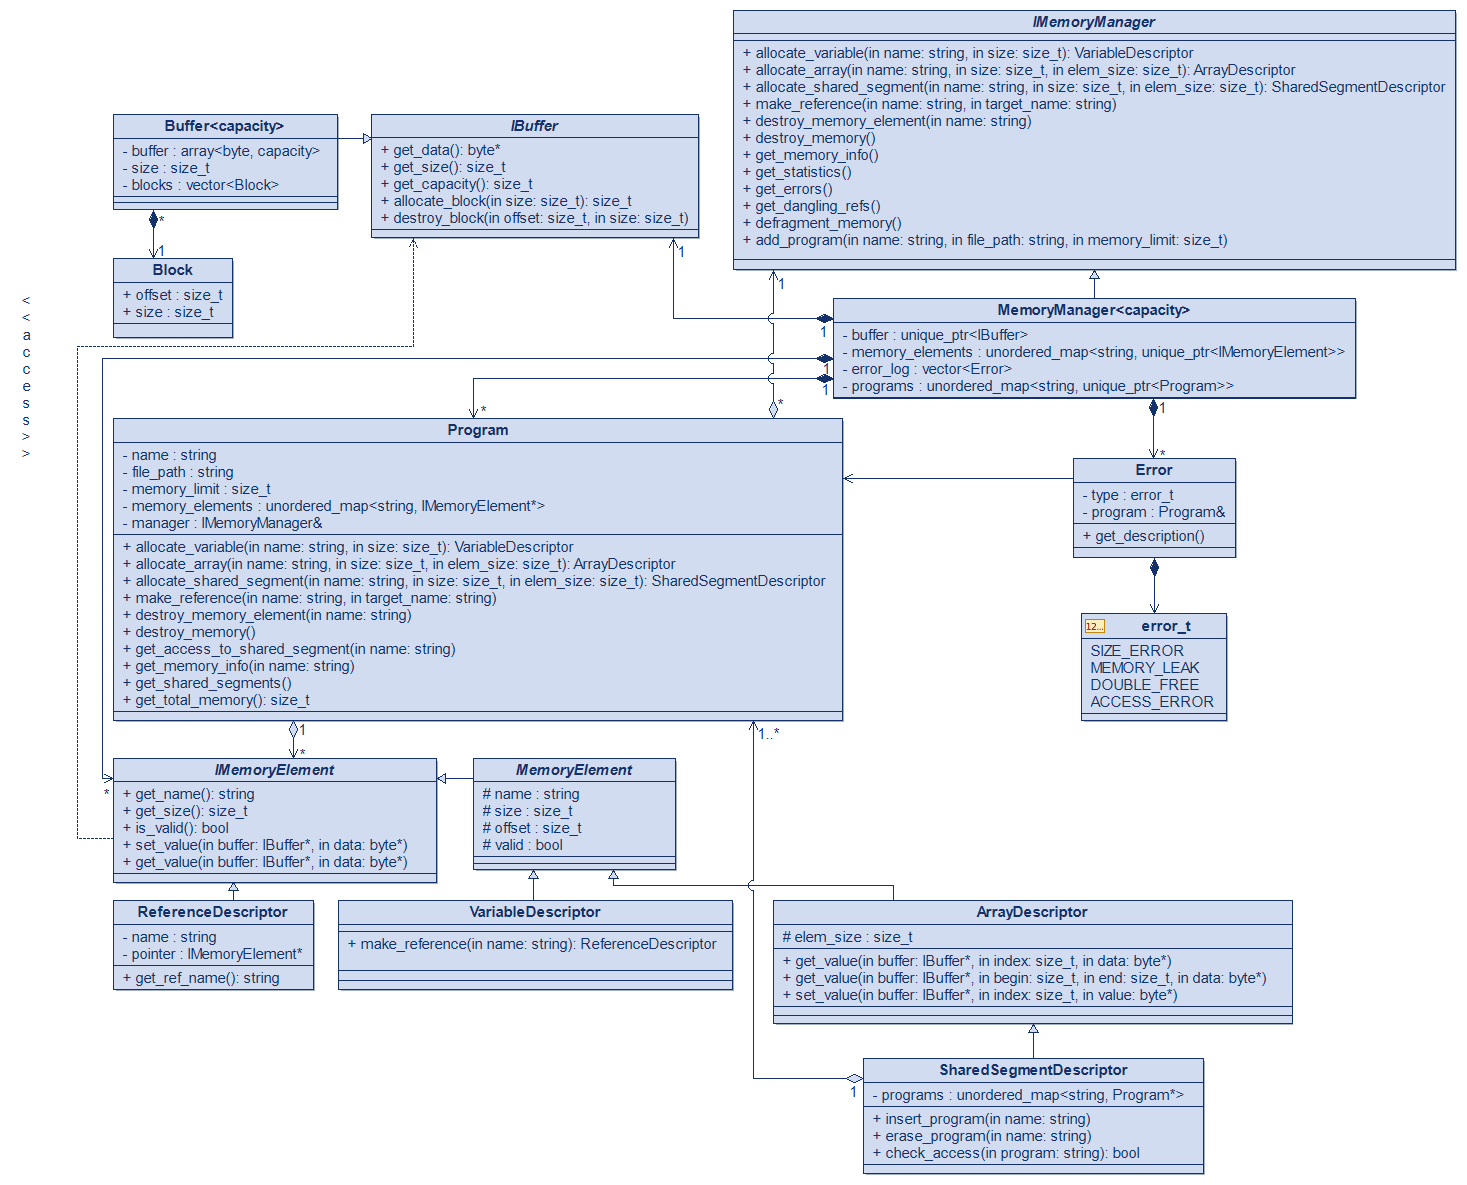
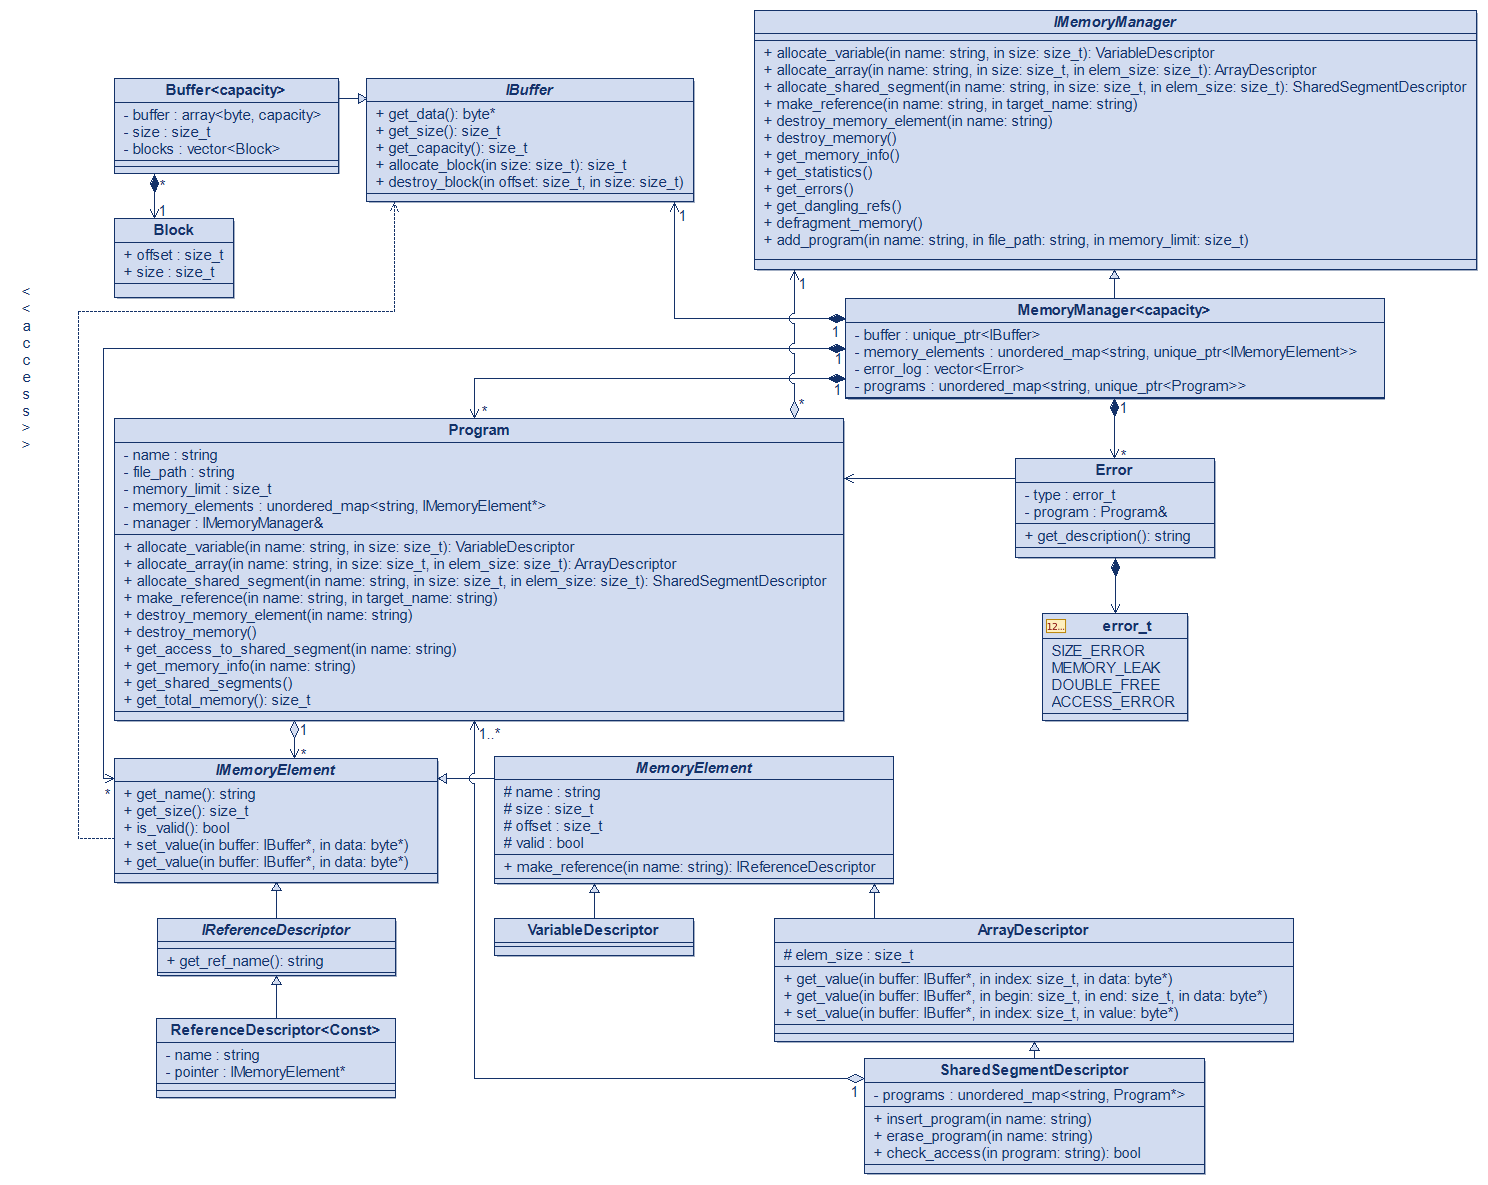
Fixed structure and added base funcs

diff --git a/3/Memory/include/Memory/SharedSegmentDescriptor.hpp b/3/Memory/include/Memory/SharedSegmentDescriptor.hpp
@@ -2,7 +2,7 @@
 #define SHAREDSEGMENTDESCRIPTOR_HPP
 
 #include <string>
-#include <vector>
+#include <unordered_map>
 #include <algorithm>
 #include <Memory/MemoryElement.hpp>
 #include <Memory/ArrayDescriptor.hpp>
@@ -12,14 +12,15 @@ namespace MemoryNameSpace{
 
 class SharedSegmentDescriptor final: public ArrayDescriptor{
 private:
-    std::vector<Program*> programs_;
+    std::unordered_map<std::string, Program*> programs_;
 
 public:
     SharedSegmentDescriptor(const std::string& name, size_t size, size_t element_size, size_t offset, Program* program)
-            : ArrayDescriptor(name, size, offset, element_size), programs_(std::vector<Program*>{program}) {};
+            : ArrayDescriptor(name, size, offset, element_size)
+            , programs_(std::unordered_map<std::string, Program*>{{program->get_name(), program}}) {};
     void insert_program(Program* program);
-    void erase_program(Program* program);
-
+    void erase_program(const std::string& name);
+    bool check_access(const std::string& name) const;
 };
 
 }

diff --git a/3/Memory/source/SharedSegmentDescriptor.cpp b/3/Memory/source/SharedSegmentDescriptor.cpp
@@ -1,19 +1,20 @@
-#include <string>
-#include <vector>
-#include <algorithm>
-#include <Memory/MemoryElement.hpp>
-#include <Memory/ArrayDescriptor.hpp>
-#include <Memory/Program.hpp>
+#include <Memory/SharedSegmentDescriptor.hpp>
 
 namespace MemoryNameSpace{
 
 void SharedSegmentDescriptor::insert_program(Program* program){
-    programs_.push_back(program);
+    programs_.insert({program->get_name(), program});
 }
-void SharedSegmentDescriptor::erase_program(Program* program){
-    auto it = std::find_if(programs_.begin(), programs_.end(),
-                            [&program](Program* cur_program){ return cur_program == program; });
+
+void SharedSegmentDescriptor::erase_program(const std::string& name){
+    auto it = programs_.find(name);
     if(it != programs_.end()) programs_.erase(it);
+}
+
+bool SharedSegmentDescriptor::check_access(const std::string& name) const {
+    auto it = programs_.find(name);
+    if(it != programs_.end()) return true;
+    return false;
 }
 
 }

diff --git a/3/Memory/include/Memory/ReferenceDescriptor.hpp b/3/Memory/include/Memory/ReferenceDescriptor.hpp
@@ -8,17 +8,20 @@
 namespace MemoryNameSpace{
 
 class ReferenceDescriptor final : public IMemoryElement{
+public:
+    using Pointer = IMemoryElement*;
+
 private:
     std::string name_;
-    IMemoryElement* pointer_;
+    Pointer pointer_;
 
 public:
-    ReferenceDescriptor(const std::string& name, MemoryElement* pointer)
+    ReferenceDescriptor(const std::string& name, Pointer pointer)
             : name_(name), pointer_(pointer) {};
     const std::string& get_name() const noexcept override;
     size_t get_size() const noexcept override;
     bool is_valid() const noexcept override;
-    void get_value(IBuffer* buffer, const std::byte* value) const;
+    void get_value(IBuffer* buffer, const std::byte* value) const override;
     void set_value(IBuffer* buffer, const std::byte* value) override;
     const std::string& get_ref_name() const noexcept;
 };

diff --git a/3/Memory/source/ArrayDescriptor.cpp b/3/Memory/source/ArrayDescriptor.cpp
@@ -6,16 +6,15 @@ void ArrayDescriptor::get_value(IBuffer *buffer, size_t index, const std::byte *
     std::byte* target = buffer->get_data() + offset_ + index * element_size_;
     std::copy(target, target + element_size_, value);
 }
+
 void ArrayDescriptor::get_value(MemoryNameSpace::IBuffer *buffer, size_t begin, size_t end, const std::byte *value) const {
     std::byte* target = buffer->get_data() + offset_ + begin * element_size_;
     std::copy(target, target + element_size_ * (end - begin), value);
 }
+
 void ArrayDescriptor::set_value(IBuffer *buffer, size_t index, const std::byte *value){
     std::byte* target = buffer->get_data() + offset_ + index * element_size_;
     std::copy(value, value + element_size_, target);
-}
-ReferenceDescriptor ArrayDescriptor::make_reference(std::string name){
-    return ReferenceDescriptor{name, this};
 }
 
 }

diff --git a/3/Memory/source/MemoryElement.cpp b/3/Memory/source/MemoryElement.cpp
@@ -1,20 +1,25 @@
-#include <string>
-#include <cstddef>
 #include <Memory/MemoryElement.hpp>
 
 namespace MemoryNameSpace{
 
 const std::string& MemoryElement::get_name() const noexcept { return name_; }
+
 size_t MemoryElement::get_size() const noexcept { return size_; }
+
 bool MemoryElement::is_valid() const noexcept { return valid_; }
+
 void MemoryElement::get_value(IBuffer* buffer, const std::byte* value) const {
     std::byte* target = buffer->get_data() + offset_;
     std::copy(target, target + size_, value);
 }
+
 void MemoryElement::set_value(IBuffer* buffer, const std::byte* value){
     std::byte* target = buffer->get_data() + offset_;
     std::copy(value, value + size_, target);
 }
 
+ReferenceDescriptor MemoryElement::make_reference(std::string name) {
+    return ReferenceDescriptor{name, this};
+}
 
 }

diff --git a/3/Memory/source/ReferenceDescriptor.cpp b/3/Memory/source/ReferenceDescriptor.cpp
@@ -1,5 +1,3 @@
-#include <string>
-#include <memory>
 #include <Memory/ReferenceDescriptor.hpp>
 
 namespace MemoryNameSpace{
@@ -7,18 +5,23 @@ namespace MemoryNameSpace{
 const std::string& ReferenceDescriptor::get_name() const noexcept {
     return pointer_->get_name();
 }
+
 size_t ReferenceDescriptor::get_size() const noexcept {
     return pointer_->get_size();
 }
+
 bool ReferenceDescriptor::is_valid() const noexcept {
     return pointer_->is_valid();
 }
+
 void ReferenceDescriptor::get_value(IBuffer* buffer, const std::byte* value) const {
     pointer_->get_value(buffer, value);
 }
+
 void ReferenceDescriptor::set_value(IBuffer* buffer, const std::byte* value) {
     pointer_->set_value(buffer, value);
 }
+
 const std::string& ReferenceDescriptor::get_ref_name() const noexcept {
     return name_;
 }

diff --git a/3/Memory/include/Memory/Buffer.hpp b/3/Memory/include/Memory/Buffer.hpp
@@ -37,8 +37,8 @@ public:
     
     std::byte* get_data() noexcept override { return buffer_.data(); }
     const std::byte* get_data() const noexcept override { return buffer_.data(); }
-    constexpr size_t get_size() const noexcept override { return size_; }
-    constexpr size_t get_capacity() const noexcept override { return capacity_; }
+    size_t get_size() const noexcept override { return size_; }
+    consteval size_t get_capacity() const noexcept override { return capacity_; }
     
     size_t allocate_block(size_t size) override {
         size_t offset_res = 0;
@@ -75,7 +75,6 @@ public:
         }
         blocks_.insert(it, Block{offset, size});
     }
-
 };
 
 }

diff --git a/3/Memory/include/Memory/MemoryElement.hpp b/3/Memory/include/Memory/MemoryElement.hpp
@@ -4,6 +4,7 @@
 #include <string>
 #include <cstddef>
 #include <Memory/Buffer.hpp>
+#include <Memory/ReferenceDescriptor.hpp>
 
 namespace MemoryNameSpace{
 
@@ -32,6 +33,7 @@ public:
     bool is_valid() const noexcept;
     void get_value(IBuffer* buffer, const std::byte* value) const override;
     void set_value(IBuffer* buffer, const std::byte* value) override;
+    virtual ReferenceDescriptor make_reference(std::string name);
     virtual void make_abstract() const noexcept = 0;
     virtual ~MemoryElement(){};
 };

diff --git a/3/Memory/source/Program.cpp b/3/Memory/source/Program.cpp
@@ -1,13 +1,9 @@
-#include <string>
-#include <unordered_map>
-#include <vector>
-#include <Memory/Manager.hpp>
-#include <Memory/MemoryElement.hpp>
-#include <Memory/VariableDescriptor.hpp>
-#include <Memory/ArrayDescriptor.hpp>
-#include <Memory/SharedSegmentDescriptor.hpp>
-#include <Memory/ReferenceDescriptor.hpp>
+#include <Memory/Program.hpp>
 
 namespace MemoryNameSpace{
+
+const std::string& Program::get_name() const {
+    return name_;
+}
 
 }

diff --git a/3/Memory/include/Memory/ArrayDescriptor.hpp b/3/Memory/include/Memory/ArrayDescriptor.hpp
@@ -19,7 +19,6 @@ public:
     void get_value(IBuffer* buffer, size_t begin, size_t end, const std::byte* value) const;
     using MemoryElement::set_value;
     void set_value(IBuffer* buffer, size_t index, const std::byte* value);
-    ReferenceDescriptor make_reference(std::string name);
 };
 
 }

diff --git a/3/Memory/include/Memory/VariableDescriptor.hpp b/3/Memory/include/Memory/VariableDescriptor.hpp
@@ -12,7 +12,6 @@ class VariableDescriptor final : public MemoryElement{
 public:
     VariableDescriptor(const std::string& name, size_t size, size_t offset)
             : MemoryElement(name, size, offset) {};
-    ReferenceDescriptor make_reference(std::string name);
 };
 
 }

diff --git a/3/Memory/source/Error.cpp b/3/Memory/source/Error.cpp
@@ -1,3 +1,10 @@
+#include<Memory/Error.hpp>
+
 namespace MemoryNameSpace{
+
+std::string Error::get_description(){
+    std::vector<std::string> messages{"SIZE_ERROR", "MEMORY_LEAK", "DOUBLE_FREE", "ACCESS_ERROR"};
+    return messages[static_cast<size_t>(type_)];
+}
 
 }
